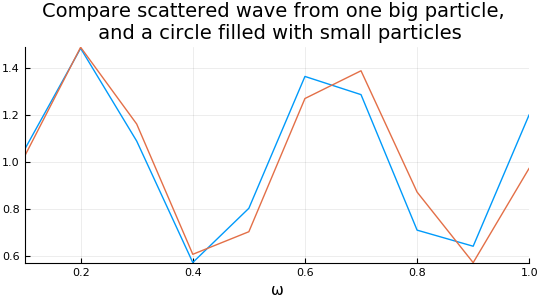
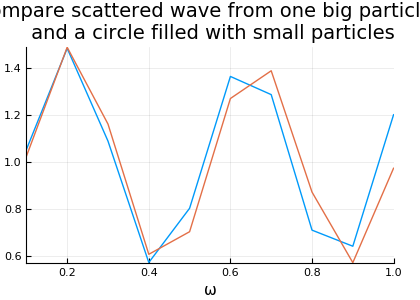
adjust legnend

diff --git a/example/random_particles_in_circle/README.md b/example/random_particles_in_circle/README.md
@@ -54,7 +54,9 @@ If we compare the response measured at the listener `[-10., 0.]`, they should be
 result = run(simulation, x, ωs)
 big_result = run(big_particle_simulation, x, ωs)
 
-plot(result)
-plot!(big_result, title="Compare scattered wave from one big particle, \n and a circle filled with small particles")
+plot(result, lab = "scattering from particles")
+plot!(big_result,
+    lab = "scattering from big particle",
+    title="Compare scattered wave from one big particle, \n and a circle filled with small particles")
 ```
 ![The response comparison](plot_response_compare.png)
